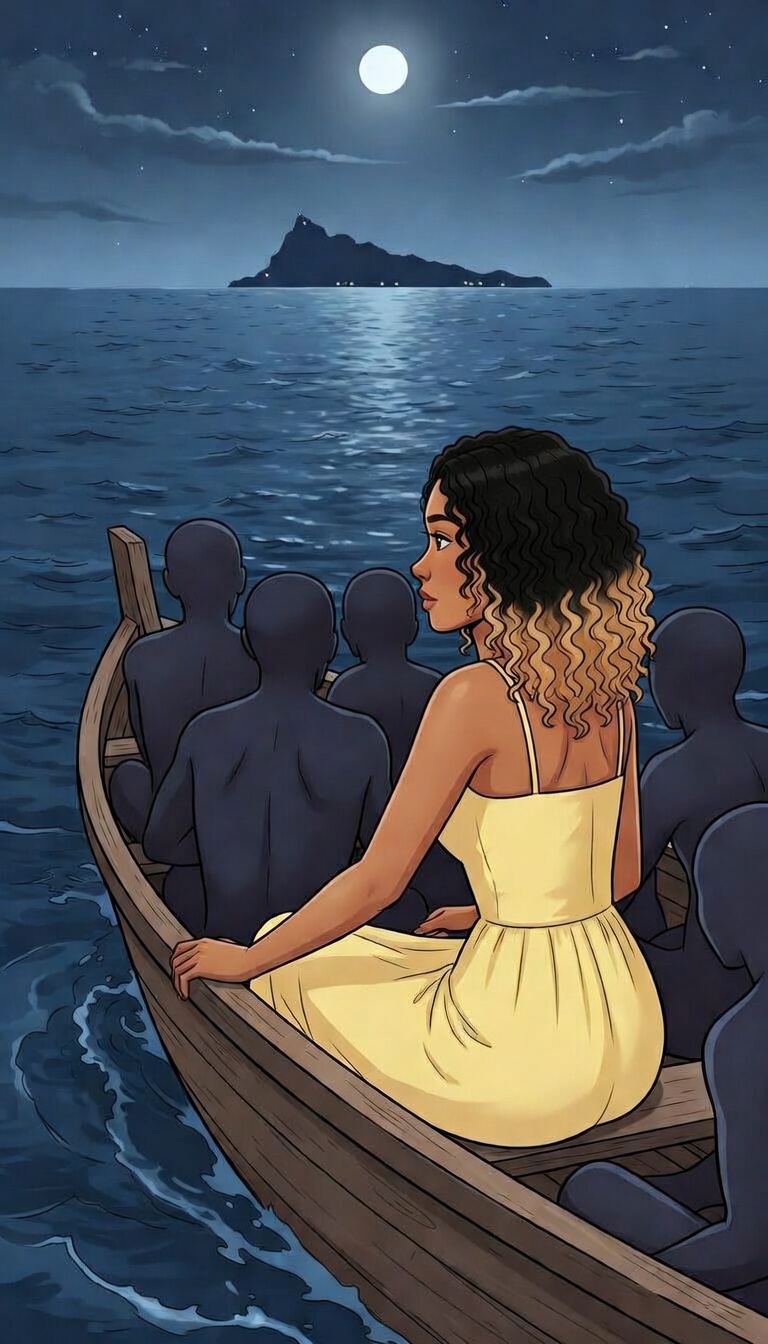
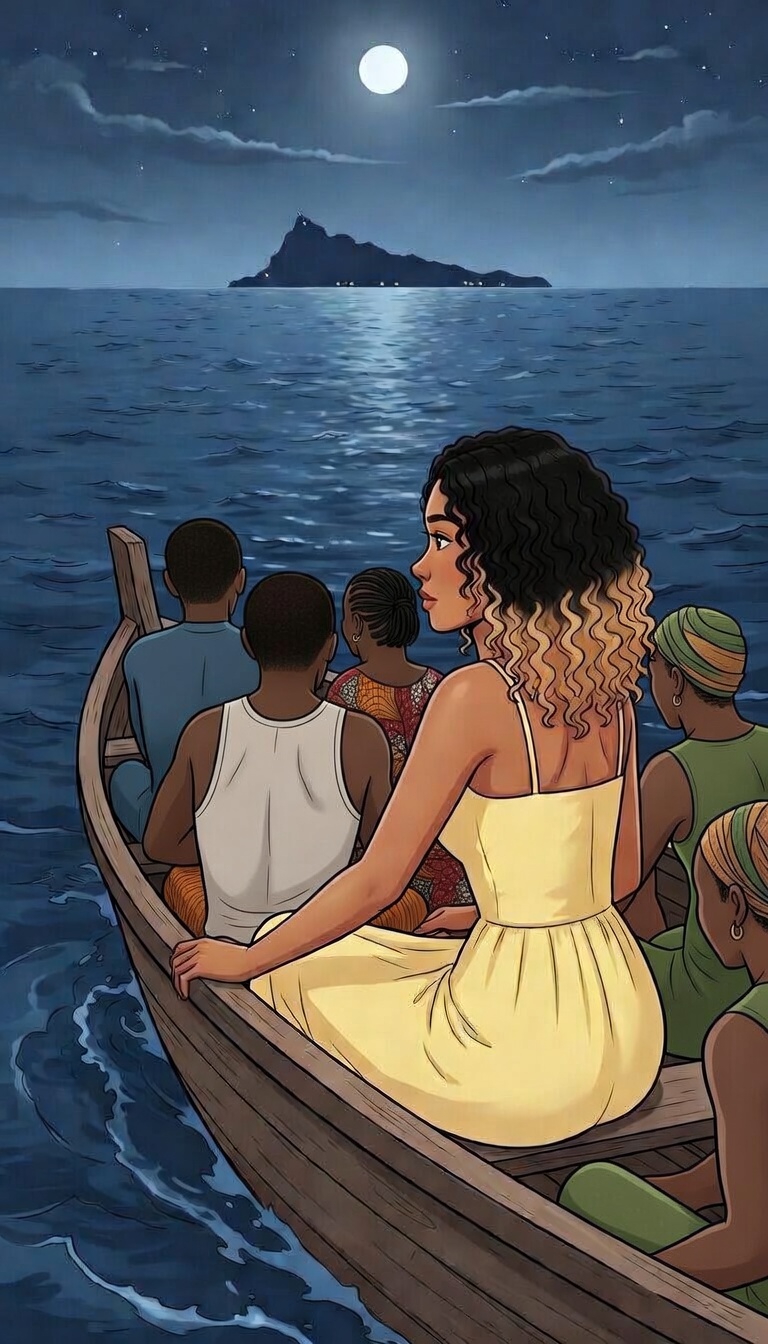
Add EP3/3_09b transition and update asset organization
- Insert a new sky transition panel (3_09b) in Episode 3 to bridge scenes.
- Add/rename specific panels in EP1 and EP2 as candidate files (prefixed with X) for review.

Changed region(s): [[0.125, 0.375, 0.5938, 0.7188], [0.7188, 0.4375, 1.0, 1.0], [0.4688, 0.625, 0.625, 0.7188]]

diff --git a/Ciel_Bleu_de_Mayotte/HTML/episode_3.html b/Ciel_Bleu_de_Mayotte/HTML/episode_3.html
@@ -141,6 +141,12 @@
     </div>
     <div class="panel-separator"></div>
 
+    <!-- 3_09b — Transition ciel -->
+    <div class="panel">
+        <img src="../IMAGES/EP3/3_09b.png" alt="Ciel bleu traversé par un avion, transition intérieure">
+    </div>
+    <div class="panel-separator"></div>
+
     <!-- 3_10 — Miroir brisé -->
     <div class="panel">
         <img src="../IMAGES/EP3/3_10.png" alt="Maria devant un miroir brisé, ne se reconnaît plus">
